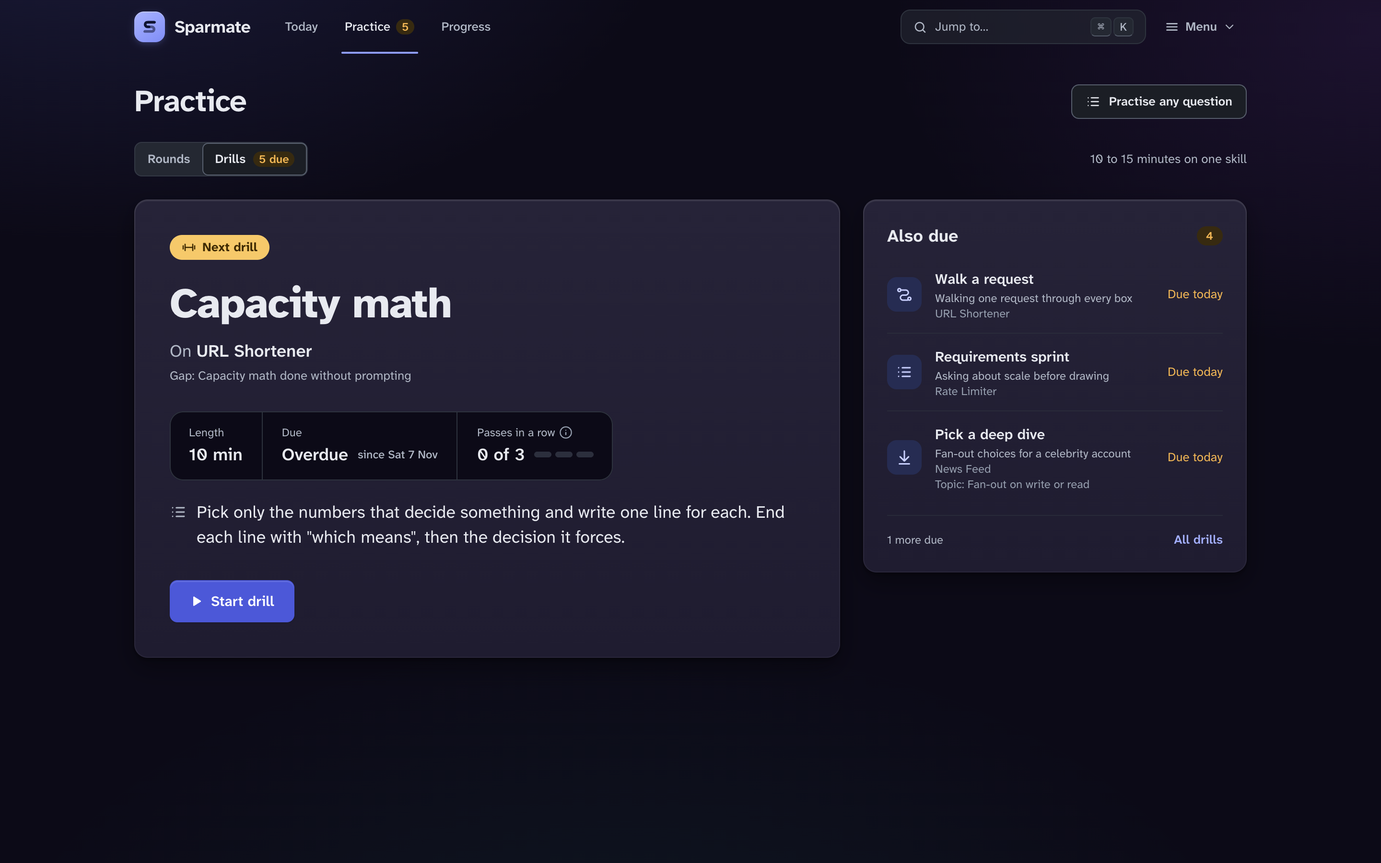
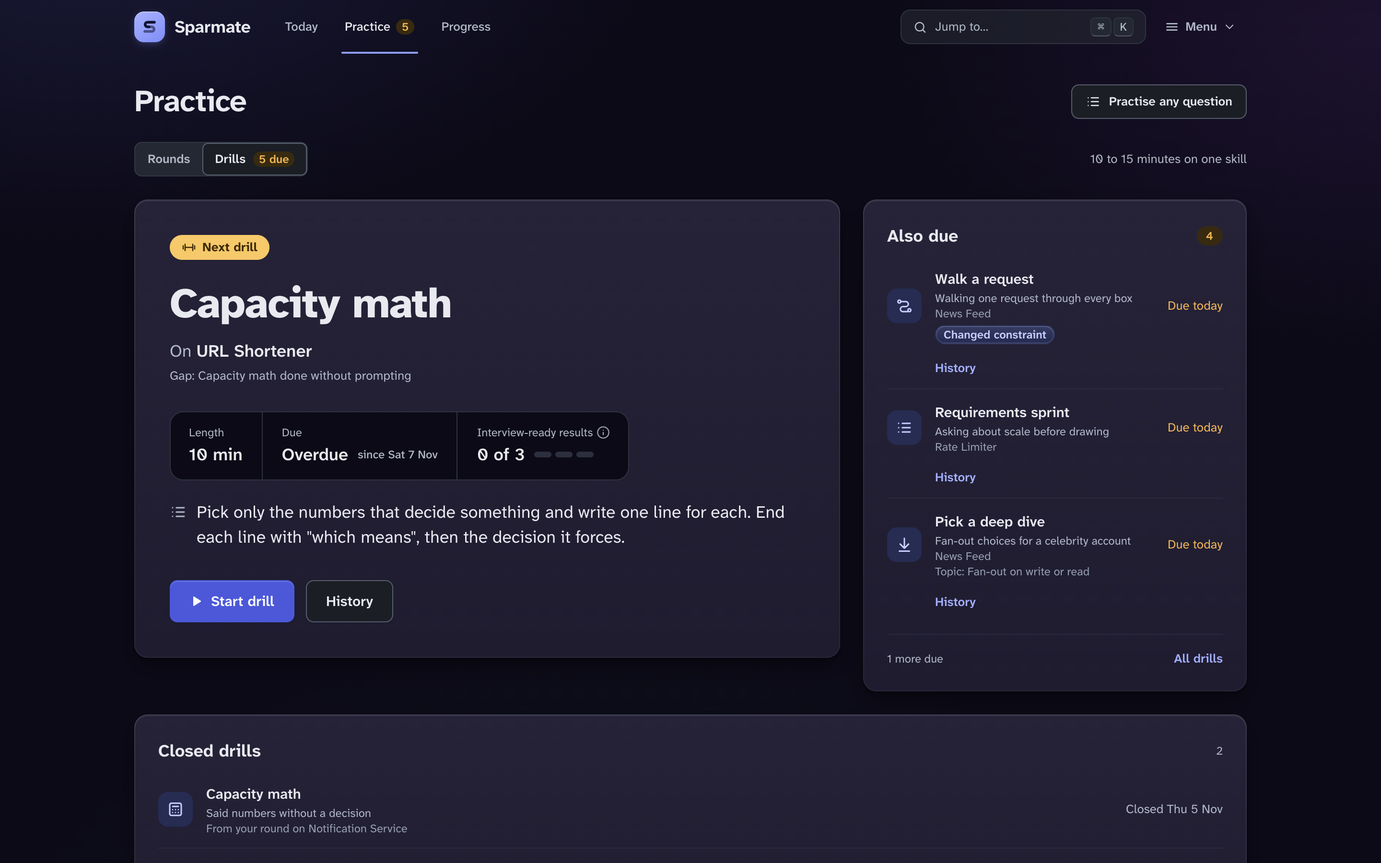
docs: show the drill screens and state the drill rules (#35)
* docs: show the drill screens and state the drill rules

* docs: show the trade-off task as the drill words it

diff --git a/src/web/fixtures/drillDialogue.tsx b/src/web/fixtures/drillDialogue.tsx
@@ -8,7 +8,7 @@ const PROMPT: DrillPrompt = {
   drill: "tradeoff",
   title: "Defend a trade-off",
   minutes: 15,
-  task: 'Take "Fan-out strategy": pick the option you would build for this problem, give the reason from its requirements, and say when the other option wins.',
+  task: 'The topic is "Fan-out strategy". Say what you would choose for this problem, give the reason from its requirements, and say what would make you choose differently.',
   topic: "Fan-out strategy",
   problem: { id: "c2-news-feed", title: "News Feed", track: "hld" },
   material: [
@@ -23,7 +23,7 @@ const TURNS: DrillTurn[] = [
     role: "candidate",
     text: "I would fan out on write for most users. A timeline read must be fast, and reads outnumber posts by a large factor.\nFor an account with millions of followers I would skip the push and merge its posts when the reader opens the feed.",
   },
-  { role: "grader", text: "What does that merge cost on a read, and when would you choose fan-out on read for everyone?" },
+  { role: "grader", text: "What does that merge cost on every read of the feed?" },
 ];
 
 /** A dialogue drill after the first question: the prompt on the left, the thread and the reply box on the right. */

diff --git a/src/web/fixtures/gym.ts b/src/web/fixtures/gym.ts
@@ -103,7 +103,7 @@ export const fixtureGym: GymSummary = {
       15,
       "2026-11-09",
       0,
-      'Take "Fan-out strategy": pick the option you would build for this problem, give the reason from its requirements, and say when the other option wins.',
+      'The topic is "Fan-out strategy". Say what you would choose for this problem, give the reason from its requirements, and say what would make you choose differently.',
     ),
     row("a1b2c3d4e5f60006", "Capacity math done without prompting", null, "capacity", "Capacity math", "c2-news-feed", "News Feed", 10, "2026-11-12", 1, ""),
   ],

diff --git a/docs/SPEC.md b/docs/SPEC.md
@@ -50,7 +50,7 @@ Environment variables (all optional). The server also reads them from a gitignor
 |---|---|---|
 | `PORT` | `4747` | Server port. The server binds `127.0.0.1` only natively, or `0.0.0.0` when `SPARMATE_IN_CONTAINER=1`. |
 | `STUDY_ROOT` | `~/sparmate-study` | Where `TRACKER.md`, `REVIEW.md`, `notes/`, `lld/` live. Tests point it at a temp copy. |
-| `DATA_DIR` | `<STUDY_ROOT>/rounds` | Sessions, settings, custom problems, logs. |
+| `DATA_DIR` | `<STUDY_ROOT>/rounds` | Sessions, settings, custom problems, drill schedule and attempts, usage ledger, logs. |
 | `SPARMATE_IN_CONTAINER` | unset | `1` enables container mode: server listens on `0.0.0.0`, strict host/origin allow-lists applied. |
 | `SPARMATE_FAKE_AGENT` | unset | `1` replaces every model call with the deterministic fake driver (section 5.7). |
 | `SPARMATE_CLAUDE_JSON` | `~/.claude.json` | Where the privacy guard reads the account email (section 11). |
@@ -65,6 +65,8 @@ rounds/
   settings.json                      Settings (src/shared/types.ts), defaults when missing
   usage.jsonl                        append-only model call ledger (tokens, cost, duration)
   leetcode.json                      the DSA solve ledger and cached problem details (below)
+  drills.json                        the drill queue and the index of every drill attempt, format version 2 (section 12.1)
+  drill-attempts/<attemptId>.json    the saved body of one drill attempt: task, answers, dialogue turns and grades
   sessions/<sessionId>/              deleted whole when the round is discarded (section 5.11)
     session.json                     Session, rewritten atomically after every change worth keeping
     board.json                       { version, elements } latest scene
@@ -183,7 +185,7 @@ the zod schema in code. Never trust model JSON without the zod parse.
 | scribe | when the user clicks "Draft study notes" | one-shot | none | `ScribeOutputSchema` structured |
 | brief-writer | custom problem preparation | one-shot | WebSearch (<= 8), WebFetch (<= 6) | `{ meta: { title, difficulty, tags }, body, sources, confidence }` structured |
 | brief-checker | custom problem verification | one-shot | WebFetch, WebSearch (<= 3) | `{ body, corrections, unconfirmed? }` structured |
-| grader | when the candidate submits, or replies in, a Gym drill (section 12.1) | one-shot, default `claude-sonnet-5-5` at effort `medium`, set in Settings `models.grader` and `effort.grader` | none | `{ scores, wentWell, improve, yourLine, strong }` structured, checked and trimmed by the server; the server derives the outcome from the scores. The interviewer questions of a dialogue drill use the same role and the prompt `drill-follow-up`, and return `{ question }` or `{ another, question }`, checked and cleaned by the server |
+| grader | when the candidate submits, or replies in, a drill (section 12.1) | one-shot, default `claude-sonnet-5-5` at effort `medium`, set in Settings `models.grader` and `effort.grader` | none | `{ scores, wentWell, improve, yourLine, strong }` structured, checked and trimmed by the server; the server derives the outcome from the scores. The interviewer questions of a dialogue drill use the same role and the prompt `drill-follow-up`, and return `{ question }` or `{ another, question }`, checked and cleaned by the server |
 | checker | when the round leaves a step, when the round ends, on a guided step check, and when the guide re-reads a step (section 5.11) | one-shot, always `claude-sonnet-5-5` at effort `low` | none (a frame PNG attached as an image block when needed) | `{ items[{ id, state, source, quote, detail }] }` structured, verified and stored in `Session.stepChecks` |
 
 Tool definitions (zod input schemas, every input validated, size-capped):
@@ -953,24 +955,29 @@ control reachable by keyboard; visible focus; contrast at WCAG AA. No external f
 ### 12.1 Screens
 
 **Main bar** (every page except the room, the debrief and the start flow)
-- "Sparmate" and six links: Today, Library, Gym, DSA, Progress, History. The current page is underlined. Usage and
-  Settings are icons on the right, with the Test mode pill beside them. On a phone the links scroll sideways inside
-  the bar, so the page never does. The Gym link shows the number of due drills, and nothing when none is due.
+- "Sparmate" and three links: Today, Practice and Progress. The current page is underlined. A "Jump to…" box opens
+  the command palette, and a Menu button holds Settings, Usage and the keyboard shortcuts, with the Test mode pill
+  beside it. On a phone the links move to a bottom tab bar with a Jump tab. The Practice link shows the number of
+  due drills, and nothing when none is due. The old addresses `/library`, `/gym`, `/dsa` and `/history` are replaced
+  in place by `/practice`, `/practice/drills`, `/progress#dsa` and `/progress#history`.
 
 **Today `/`**
 - Kicker date and the day's title ("System design day", "Machine coding day", "DSA day", "Redo day", "Rest day"). A
   quiet week strip top right marks today and shows each day's kind from the weekly plan.
 - The hero card is the session `selectToday` picks (section 5.10a): chips ("Redo due" or "New problem", the track), the
   problem title large, one sentence why, a facts row (Mode, Round, Debrief), at most one warning line, the one filled
-  primary button, "See the plan" and a quiet "Pick another problem" link to the Library. "See the plan" opens a side
+  primary button, "See the plan" and a quiet "Pick another problem" link to Practice. "See the plan" opens a side
   panel with the mode switch, the step plan with its minutes and the minutes of the last try, the last try's result, and
   a link to the last debrief. A round to finish shows Finish as the primary action. A DSA day shows "Open LeetCode"
   (new tab, `rel="noopener noreferrer"`).
-- Side column: an Unfinished card for the newest unfinished round (title, paused date, clock used of the total with a
+- Side column: a "Drills due" card with the number of due drills and their total minutes, up to three rows (the gap,
+  and the drill kind with its minutes and the problem of its next attempt, with a "Changed constraint" tag when
+  one applies) each with a Start button, and an "Open Practice" link; an Unfinished card for the newest unfinished round (title, paused date, clock used of the total with a
   bar, Finish, and End and debrief, or Discard under 5 minutes of clock), with "N more unfinished rounds" linking to
   History; a link card "N more redos" to Progress. End and debrief calls `POST /api/sessions/:id/end` and opens the round.
 
-**Library `/library`**
+**Practice, Rounds `/practice`**
+- A segmented switch, Rounds and Drills, sits under the title; Drills carries the number due. `/practice` opens Rounds and `/practice/drills` opens Drills.
 - Track switch HLD, LLD and My questions with counts; filter Fresh first (default), Redo due, All. Rows hold a status
   mark, title, difficulty and the last result on two lines (a coloured result word and a small detail such as "Redo due
   8 Nov" or "Round open"), grouped Fresh then Tried before. A row has no button: selecting it fills the right panel with
@@ -992,10 +999,13 @@ control reachable by keyboard; visible focus; contrast at WCAG AA. No external f
   and one chart with a bar per step, planned minutes against used minutes, from the newest scorecard's phase timing. The
   primary button is "Practise this gap" (a 20-minute guided round on the newest open gap whose text names the skill) or,
   with no such gap, "Start a round" to Today.
-- Side cards: Skills with a Guided and Interview switch (never mixed), a 1 to 4 track per skill with the target bar
-  marked, one dot per round (the newest bold), the skill's level as its number to one decimal, and an info tip ("Your
-  last 3 rounds, plus drills from the last 30 days at a lower weight.") that also explains the scale; and Next
-  redos with the next two and their dates, "See all N" opening a side panel with the full queue.
+- Side cards beside it: the counters above and Next redos with the next two and their dates, "See all N" opening a
+  side panel with the full queue.
+- The page is one scroll with a sub-navigation of four sections: This week, Skills, DSA and History. The Skills section
+  holds a "Level per skill" card and a "Drills by kind" card. "Level per skill" has a Guided and Interview switch (never
+  mixed), a 1 to 4 track per skill with the target bar marked, one dot per round (the newest bold), the skill's level as
+  its number to one decimal, and an info tip ("Your last 3 rounds, plus drills from the last 30 days at a lower
+  weight.") that also explains the scale.
 - Drills feed Progress. A drill point is one finished, non-legacy attempt that has scores: its day, kind, the skill the
   kind trains on the track of its problem (`drillSkill`; the trade-off takes the track of the attempt's problem), the
   mean of the scores of its first grade, its outcome and whether it was a first try (Interview-ready with no revision).
@@ -1014,14 +1024,14 @@ control reachable by keyboard; visible focus; contrast at WCAG AA. No external f
   the attempts of the last 30 days, and the share of those that were ready on the first try. A row links to Practice,
   Drills. With no point the card says no drill has been graded yet; when the summary cannot be read it says so.
 
-**History `/history`**
+**Progress, History `/progress#history`**
 - Every round, newest first: date, problem and track, mode, a result chip (the verdict as its plain label, or "Ready" or
   "Not yet" for a guided round with a readiness call, or the status), a link (Finish for a live or paused round, else
   Open debrief or Open) and a "Discard" button. A debriefed round shows "Notes saved" or "Notes not saved". An unfinished
   round carries an "Unfinished" chip. Discard asks first, with the same confirm text as the room, then calls
   `DELETE /api/sessions/:id`. It is disabled while the status is Debriefing.
 
-**Gym `/gym`**
+**Practice, Drills `/practice/drills`**
 - The next due drill is the hero: title, problem, length, due day, Interview-ready results (three pips, with an info tip on how a gap closes), the one-line task and "Start drill". "Also due" lists the next three due drills and says how many more wait. "All drills" opens a side panel with the six drill kinds, then the problems that can supply the drill. With nothing due the hero says so and "All drills" is the one primary button. With no round played and no custom problem, the page explains that drills start after the first round.
 - Drill kinds are fixed: `capacity`, `walk`, `requirements`, `deep_dive`, `tradeoff` ("Defend a trade-off") and `lld_skeleton`. Capacity, walk and requirements take 10 minutes; the other three take 15. Capacity, walk and requirements serve system design only, the LLD skeleton serves machine coding only, and the deep dive serves system design. The trade-off serves both tracks, so a kind lists the tracks it serves (`DRILL_INFO[kind].tracks`). Each kind reads one section of the problem brief: capacity keys on "Capacity math" and prompts with the numeric lines of "Hidden facts"; walk keys on "Reference design"; requirements prompts with the opening prompt only and keys on "Expected requirements" plus the held-back facts, so it grades the questions and settled requirements the candidate writes, each with the answer or number the candidate assumes, because nobody answers in a drill; deep dive keys on one "Deep dives" entry, chosen by words shared with the gap (with no shared word, the entries rotate); the trade-off on system design keys on one top-level bullet of "Accepted alternatives" (`- **Name.** text` with its sub-bullets; the title is the bold lead without its closing dot, and each title names one decision). A bullet whose title is "Smaller choices" or starts with "Other" gathers small unrelated choices, so it is never a topic. The task is `The topic is "<title>". Say what you would choose for this problem, give the reason from its requirements, and say what would make you choose differently.` The entry is the one whose title shares the most four-letter word stems with the gap's title; the gap's reason and the entry's text are not read, and the common words ("without", "reason", "choice", "option", "design", "picked", "explain" and the usual filler words) never count. With no shared stem the entries rotate by a count: for a queued drill the number of finished attempts that counted for it, so its topic holds until one is done; for a free drill the number of finished attempts of that kind on the problem. A problem fits with at least one entry. The trade-off on machine coding asks about the whole "Patterns that fit" section at once, because a pattern's name would give the answer away ("Name the design patterns you would use in this problem and the ones you would leave out, each with the reason from the requirements."), shows the same "What you know" facts block as the LLD skeleton, and keys on that section; the LLD skeleton prompts with the facts and keys on "Entities and relationships" and "Behaviour and states". The skeleton is a plain-text answer graded on structure, not the C++ editor. Text of a brief is untrusted: sections are read up to 40,000 characters, by plain line scanning, with capped entry counts and lengths.
 - Each kind has a rubric (`DRILL_RUBRIC`): the round scorecard skill it trains and three to five named criteria, some marked core. `drillSkill(kind, track)` gives the skill, because the trade-off trains `depth` on system design and `design` on machine coding. The grader scores each criterion from 1 to 4 (1 missing or wrong, 2 partly there, 3 at the bar, 4 strong) on the candidate's reasoning; the key is a reference, so a different design or number that holds up with a reason earns full credit. Capacity trains `scale_reliability` (picks the numbers that decide, math is about right, each number ends in a decision: core; states its assumptions), walk trains `design` (full path in the right order, each box has a job: core; says what is read and written where, names the slow or weak step), requirements trains `navigation` (core functions, quality needs as numbers, asks the questions that change the design: core; says what is out of scope), deep dive trains `depth` (says what breaks in the naive way, a mechanism that works one level deeper, holds up under the follow-up: core; states the cost), the trade-off trains `depth` or `design` (takes a clear position, the reason uses this problem's needs, holds or changes position for a good reason: core; says when the other option wins) and the LLD skeleton trains `design` (right classes, each rule has one owner, signatures express the behaviour: core; relations and states, room for the next change). The server, not the model, sets the outcome: **Interview-ready** when every core criterion is 3 or more and none is 1; **Needs work** when a core criterion is 1 or two or more core criteria are below 3; **Getting there** otherwise. A deep-dive row saved with three scores, from before the follow-up criterion, is judged on the three it has. The grader's reply is rejected, and asked for again once, unless its score ids are exactly the kind's criteria once each. Feedback is short: up to two lines of what went well, one or two of what to improve, the candidate's own line (quote-checked against all the candidate's turns, else the first line) and one line of what a strong answer says. Any feedback line that shares six or more words in a row with the answer key is dropped. So is a line that gives part of the key away in its own words: one that holds a number from the key, or three words of six letters or more from it, that the candidate did not write and the drill did not show (`dropKeyReveals`). The candidate revises right after the feedback, so feedback points at the gap and never supplies the answer; when no improve line is left, the server writes "Work on this: <criterion>." for the lowest scored criterion. The strong line is saved in the attempt body. The result of a submit, a reply or a revision never holds it; `GET /api/gym/attempts/:attemptId` returns it only under the rule in the route table.
@@ -1041,7 +1051,7 @@ control reachable by keyboard; visible focus; contrast at WCAG AA. No external f
 - Loading shows skeletons; a failed read shows an alert with "Try again"; an unknown drill says it is not in the schedule; a drill with no attempt says so.
 - Practice, Drills links to it: the hero and each "Also due" row carry a "History" link, a "Closed drills" card below them lists the closed drills (five, then "Show all N"), and a "Recent attempts" card lists the newest 20 attempts of every kind, free drills included, with the same expanding rows and, for a queued drill, a link to its history.
 
-**DSA `/dsa`**
+**Progress, DSA `/progress#dsa`**
 - DSA measures the current pass, never the account's history. A hero shows "Mediums this week" as N of the weekly goal,
   "N problems this week" under the number and a Monday-first strip captioned "Problems solved each day" (days that are DSA days in the weekly plan are outlined and a small legend says so; today has a ring outside the cell) and
   one primary button, "Open LeetCode" (`https://leetcode.com/problemset/`, new tab, `rel="noopener noreferrer"`). The side
@@ -1135,7 +1145,7 @@ control reachable by keyboard; visible focus; contrast at WCAG AA. No external f
   were saved shows "Saved N changes to your study files on <date>" with a "Draft again" button.
 
 **Usage `/usage`**
-- Linked from the app header next to Settings.
+- Linked from the Menu in the main bar, next to Settings.
 - Totals: API-equivalent cost, input tokens, output tokens, cache hit rate, number of model calls, rounds. The
   ledger records a failed call as a row with `ok: false` (a row without `ok` reads as ok), and the totals count
   these as `failedCalls`, shown beside the call count. When the SDK gives no cost, the row is priced from its tokens

diff --git a/README.md b/README.md
@@ -19,7 +19,7 @@
 - **Voice in and out.** Speak your answers and hear the interviewer's replies.
 - **A weekly plan.** Today picks the session for the day from your plan: a redo, a new problem, a DSA day or rest.
 - **DSA progress.** The Progress page counts your LeetCode solves from a day you choose, against your weekly goal. It reads your public profile through LeetCode's unofficial GraphQL endpoint, so it can change, and it needs no login.
-- **Drills.** Under Practice, short drills of 10 to 15 minutes, queued from the gaps in your debriefs and spaced 1, 3 and 7 days apart. A grader scores a few named criteria on your reasoning, you get short feedback and one revision, and three interview-ready results close the gap. Two of the six kinds, the deep dive and "Defend a trade-off", run as a short dialogue: the grader asks one or two follow-up questions before the result, the way an interviewer probes. Each repeat of a drill uses a different problem, or the same problem with a changed constraint, so the results on at least two different problems cannot be recall of one answer. Every attempt is saved: open a drill's history to read each answer, its grade and what it cost.
+- **Drills.** Under Practice, short graded drills of 10 to 15 minutes, queued from the gaps in your debriefs, in six kinds: capacity math, walk a request, requirements sprint, pick a deep dive, defend a trade-off and an LLD skeleton. A grader scores named criteria from 1 to 4 and gives Interview-ready, Getting there or Needs work, with one revision for a written drill, and the deep dive and the trade-off run as a dialogue with one or two follow-up questions. Each repeat uses another problem or a changed constraint, a drill closes after three Interview-ready results on at least two problems, and every attempt is saved in the drill's history.
 - **Progress.** One focus skill each week, your level per skill (your latest rounds, with drills counted at a lower weight), the results of each drill kind, the redo queue and your round history.
 - **A command palette.** Press ⌘K (Ctrl+K elsewhere) to jump to a page, a problem or a past round.
 - **A usage page.** See tokens and cost for each round, role and model.
@@ -35,6 +35,10 @@
 | Practice                                                             | Progress                                                                    |
 | -------------------------------------------------------------------- | --------------------------------------------------------------------------- |
 | ![Practice, with the drills that are due](docs/screens/practice.png) | ![Progress: skills, redo queue, DSA and history](docs/screens/progress.png) |
+
+| Drill dialogue                                                                           | Drill history                                                                        |
+| ---------------------------------------------------------------------------------------- | ------------------------------------------------------------------------------------ |
+| ![A trade-off drill after the first follow-up question](docs/screens/drill-dialogue.png) | ![One drill's attempts, with outcomes, time and cost](docs/screens/drill-detail.png) |
 
 | Command palette                                                | Today on a phone                                                                                         |
 | -------------------------------------------------------------- | -------------------------------------------------------------------------------------------------------- |
@@ -121,27 +125,27 @@ In `.env`, set `STUDY_ROOT` to the folder you want for your study files. If you 
 
 All settings in `.env`:
 
-| Variable               | Default                           | Purpose                                                                     |
-| ---------------------- | --------------------------------- | --------------------------------------------------------------------------- |
-| `STUDY_ROOT`           | `~/sparmate-study`                | Your study folder.                                                          |
-| `DATA_DIR`             | `<STUDY_ROOT>/rounds`             | Sessions, settings, custom problems, drill schedule, logs and usage ledger. |
-| `PORT`                 | `4747`                            | Server port.                                                                |
-| `SPARMATE_KOKORO_HOME` | `<DATA_DIR>/kokoro`               | Kokoro voice files.                                                         |
-| `SPARMATE_DENYLIST`    | `~/.config/sparmate/denylist.txt` | Extra words to keep out of your files (see Privacy).                        |
+| Variable               | Default                           | Purpose                                                                                |
+| ---------------------- | --------------------------------- | -------------------------------------------------------------------------------------- |
+| `STUDY_ROOT`           | `~/sparmate-study`                | Your study folder.                                                                     |
+| `DATA_DIR`             | `<STUDY_ROOT>/rounds`             | Sessions, settings, custom problems, drills and their attempts, logs and usage ledger. |
+| `PORT`                 | `4747`                            | Server port.                                                                           |
+| `SPARMATE_KOKORO_HOME` | `<DATA_DIR>/kokoro`               | Kokoro voice files.                                                                    |
+| `SPARMATE_DENYLIST`    | `~/.config/sparmate/denylist.txt` | Extra words to keep out of your files (see Privacy).                                   |
 
 ## Your study folder
 
 The study folder is yours. The app reads it and writes to it only in the ways listed here. You can keep it in its own private git repository. If you do, add `rounds/` to its `.gitignore`.
 
-| Path          | What it is for                                                                                                                  |
-| ------------- | ------------------------------------------------------------------------------------------------------------------------------- |
-| `TRACKER.md`  | Your plan and progress. Each problem has a mark: `[ ]` not started, `[~]` taught but not yet recalled, `[x]` solved at the bar. |
-| `REVIEW.md`   | Recall questions. The app adds new ones after a round, and the coach re-tests old ones.                                         |
-| `TEACHING.md` | The rules the coach follows when it teaches you. Edit it to change how you are taught.                                          |
-| `ABOUT_ME.md` | Your profile. It sets the bar for every round.                                                                                  |
-| `notes/`      | What you have learnt, one file per topic.                                                                                       |
-| `lld/`        | Your C++ attempts, as `lld/<problem>/attempt-<date>.cpp`. You can edit them in any editor and the page picks up the change.     |
-| `rounds/`     | Session transcripts, boards, scores, settings and the usage ledger. The app writes here as a round runs.                        |
+| Path          | What it is for                                                                                                                                                                        |
+| ------------- | ------------------------------------------------------------------------------------------------------------------------------------------------------------------------------------- |
+| `TRACKER.md`  | Your plan and progress. Each problem has a mark: `[ ]` not started, `[~]` taught but not yet recalled, `[x]` solved at the bar.                                                       |
+| `REVIEW.md`   | Recall questions. The app adds new ones after a round, and the coach re-tests old ones.                                                                                               |
+| `TEACHING.md` | The rules the coach follows when it teaches you. Edit it to change how you are taught.                                                                                                |
+| `ABOUT_ME.md` | Your profile. It sets the bar for every round.                                                                                                                                        |
+| `notes/`      | What you have learnt, one file per topic.                                                                                                                                             |
+| `lld/`        | Your C++ attempts, as `lld/<problem>/attempt-<date>.cpp`. You can edit them in any editor and the page picks up the change.                                                           |
+| `rounds/`     | Session transcripts, boards, scores, settings, the drill schedule (`drills.json`) and every drill attempt (`drill-attempts/`), and the usage ledger. The app writes here as you work. |
 
 **The app writes study files only when you click Save.** That covers `TRACKER.md`, `REVIEW.md` and `notes/`. It also refuses to write if a file changed after it drafted the edit. The two exceptions are `rounds/` (round data) and the new `.cpp` file that an LLD round creates.
 
@@ -208,10 +212,11 @@ Rounds use your Claude plan, like any Claude Code session. The default models ar
 | Coach                                    | Claude Opus 5.5           | medium                           |
 | Scribe (study notes and custom problems) | Claude Opus 5.5           | medium                           |
 | Step checker                             | Claude Sonnet 5.5 (fixed) | low                              |
+| Drill grader                             | Claude Sonnet 5.5         | medium                           |
 
 To spend less, open Settings and switch the interviewer and the coach to Claude Sonnet 5.5. Keep the judge on Opus if you want the sharpest scoring.
 
-The **Usage** page (`/usage`, linked in the header) shows tokens, cost, duration and role for every model call, with daily charts and breakdowns by problem, round, role and model. Each round has its own row, with its cost, and the row links to its debrief. Costs are API-equivalent prices. When the SDK does not report a cost, the app prices the call from its tokens, and the page shows a "≈" next to totals that include such estimates.
+The **Usage** page (`/usage`, linked in the header) shows tokens, cost, duration and role for every model call, with daily charts and breakdowns by problem, round, role and model. A Drills section shows what grading cost, and each problem splits round cost from drill cost. Each round has its own row, with its cost, and the row links to its debrief. Costs are API-equivalent prices. When the SDK does not report a cost, the app prices the call from its tokens, and the page shows a "≈" next to totals that include such estimates.
 
 ## Problems
 

diff --git a/docs/DESIGN.md b/docs/DESIGN.md
@@ -711,7 +711,7 @@ Scripts and tests depend on these, so the revamp keeps them exactly.
   scroller moves (`scripts/e2e/layout-check.mjs`).
 - `window.__irBoard` and `window.__irShell` with `?testhooks=1`, and the `__fixtureLog` in fixture mode.
 - Fixture names: `home` (Today), `library` (Practice, Rounds), `library-new`, `progress`, `history` and `dsa` (Progress,
-  opened at that section), `settings`, `gym` (Practice, Drills), `drill-detail` (the history of one drill), the room and debrief fixtures, and `usage`. URL
+  opened at that section), `settings`, `gym` (Practice, Drills), `drill-detail` (the history of one drill), `drill-dialogue` (a dialogue drill after its first question), the room and debrief fixtures, and `usage`. URL
   parameters: `fixture`, `theme`, `mode`, `status`, `error`, `reason`, `offline`, `timeup`, `stale`, `preparing`, `now`
   (a date, for Today and Progress), `unfinished=0`, `username`, `plan`, `testmode=0`, and for Today `today=first` (no
   rounds yet, no drills) and `today=rest` (today's slot of the plan becomes rest). On Today a `username` or a `state`
